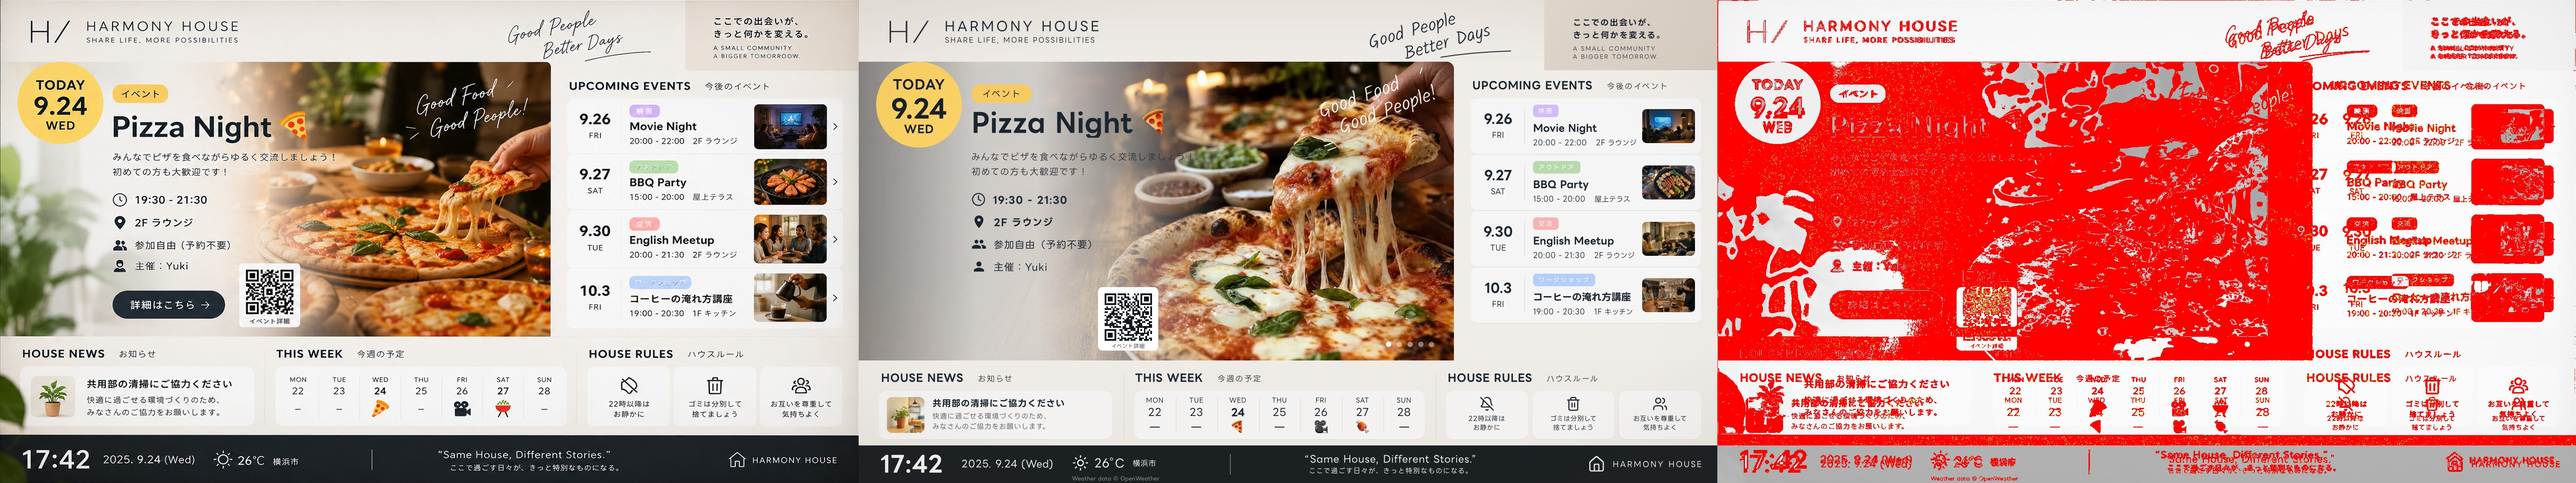
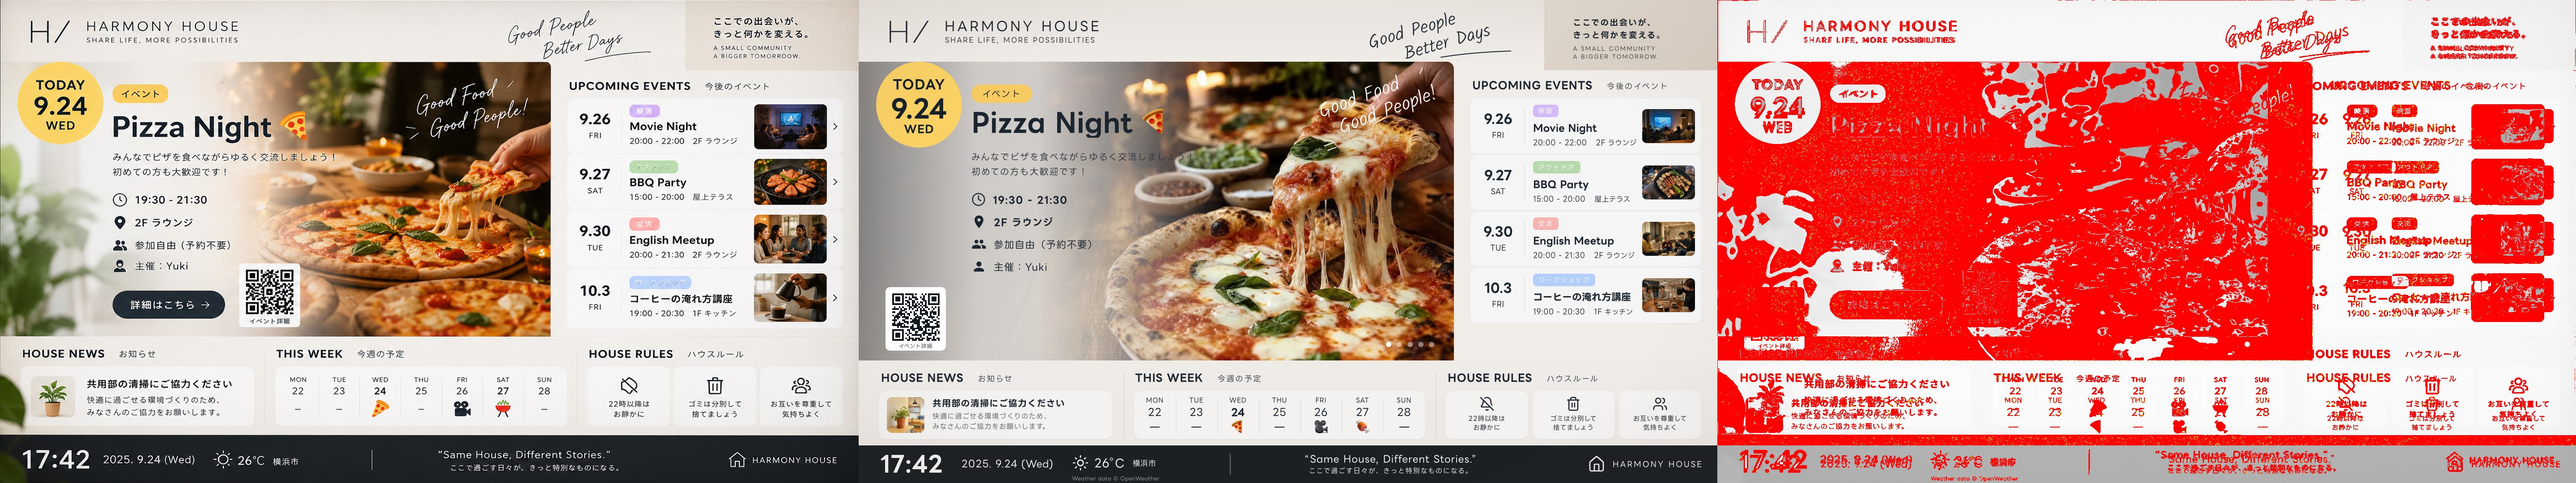
fix(signage): QR を大きな枠の左端に（ユーザー指示）
- 縦型: 右寄せ（left 801px）から左端（left 44px、説明の下）へ
- 横型: 写真の上（left 535px）から左端（left 60px、日付の丸い目印の下）へ
- モック比較（docs/design-diff）を更新: 縦 45.32%、横 45.96%、管理画面 22.44%

diff --git a/components/signage/signage.module.css b/components/signage/signage.module.css
@@ -522,9 +522,10 @@
   box-shadow: 4px 12px 0 #fff;
 }
 
+/* QR は大きな枠の左端（左下）に置く（2026-09-25 ユーザー指示） */
 .pQr {
   position: absolute;
-  left: 801px;
+  left: 44px;
   top: 675px;
   width: 171px;
   height: 185px;
@@ -1139,9 +1140,10 @@
 }
 
 
+/* QR は大きな枠の左端（日付の丸い目印の下）に置く（2026-09-25 ユーザー指示） */
 .lQr {
   position: absolute;
-  left: 535px;
+  left: 60px;
   top: 642px;
   width: 135px;
   height: 142px;
